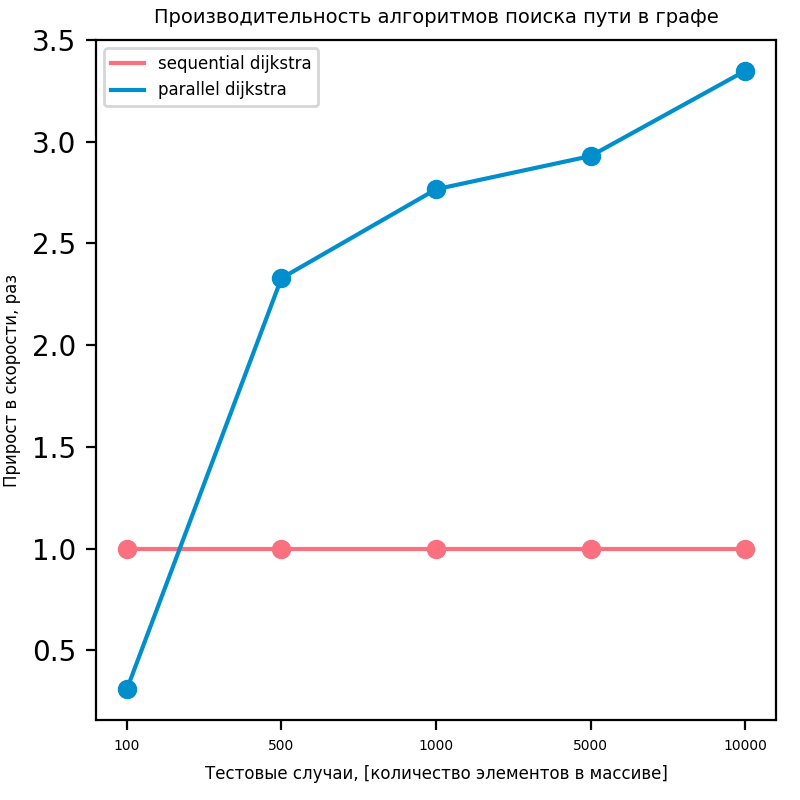
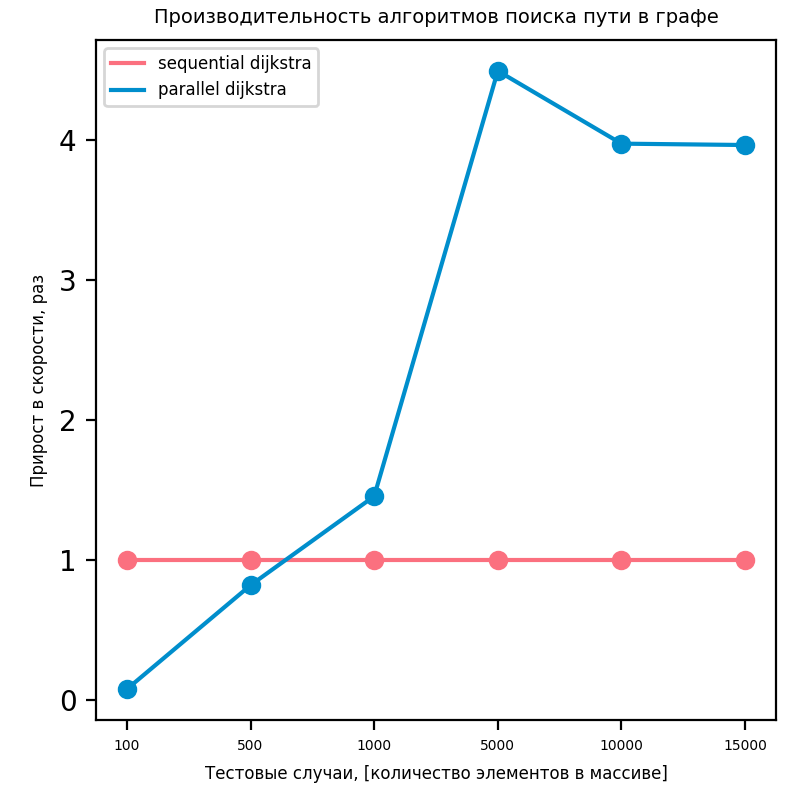
update task_4_report

diff --git a/implementation/task_4/scripts/run.py b/implementation/task_4/scripts/run.py
@@ -16,6 +16,7 @@ TEST_CASES = {
     2: 1_000,
     3: 5_000,
     4: 10_000,
+    5: 15_000,
 }
 MODES = {
     1: "sequential dijkstra",
@@ -42,17 +43,23 @@ class BenchmarkResult:
 
 
 def generate_graph(n_vertices: int, path_to_save: str):
-    source = np.array((0, 0))
-    points = np.random.rand(n_vertices - 2, 2)
-    points = np.vstack((source, points))
+    points = np.random.rand(n_vertices, 2)
     deltas = np.array([RIGHT - LEFT, TOP - BOTTOM])
     points = points * deltas + np.array([LEFT, BOTTOM])
     points = points.astype(float)
 
-    mesh = spatial.Delaunay(points, incremental=True)
-    edges = np.vstack([np.array([(a, b), (b, c), (c, a)]) for (a, b, c) in mesh.simplices])
-    edges.sort(axis=1)
-    edges = np.unique(edges, axis=0)
+    kdtree = spatial.cKDTree(data=points)
+    inds = kdtree.query(points, k=20)[1][:, 1:]
+    pair_indices = np.stack([np.repeat(np.arange(n_vertices).reshape(-1, 1),
+                                       19, axis=-1), inds], axis=-1).reshape(-1, 2)
+    pair_indices.sort(axis=1)
+    edges = np.unique(pair_indices, axis=0)
+
+
+    # mesh = spatial.Delaunay(points, incremental=True)
+    # edges = np.vstack([np.array([(a, b), (b, c), (c, a)]) for (a, b, c) in mesh.simplices])
+    # edges.sort(axis=1)
+    # edges = np.unique(edges, axis=0)
 
     weights = np.linalg.norm(points[edges[:, 0]] - points[edges[:, 1]], axis=1).astype(int)
     data = np.zeros(shape=(n_vertices, n_vertices), dtype=int)
@@ -68,16 +75,17 @@ def benchmark():
     for test_case, length in TEST_CASES.items():
         generate_graph(length, GRAPH_DATA_PATH)
         for mode in MODES:
-            st = time.time()
-            exit_code = subprocess.call([EXECUTABLE_FILE, GRAPH_DATA_PATH, str(mode)])
-            if exit_code != 0:
-                print(f'Error in benchmarking. Test Case `{test_case}`, mode `{mode}`')
-            execution_time_sec = time.time() - st
-            benchmark_results.append(BenchmarkResult(
-                test_case,
-                mode,
-                execution_time_sec
-            ))
+            for _ in range(5):
+                st = time.time()
+                exit_code = subprocess.call([EXECUTABLE_FILE, GRAPH_DATA_PATH, str(mode)])
+                if exit_code != 0:
+                    print(f'Error in benchmarking. Test Case `{test_case}`, mode `{mode}`')
+                execution_time_sec = time.time() - st
+                benchmark_results.append(BenchmarkResult(
+                    test_case,
+                    mode,
+                    execution_time_sec
+                ))
 
     plot_results(benchmark_results)
 
@@ -101,7 +109,7 @@ def plot_results(benchmark_results: List[BenchmarkResult]):
 
 def plot_time_graphics(benchmark_results: List[BenchmarkResult]):
     plt.figure(figsize=(4, 4))
-    left, width = 0.11, 0.85
+    left, width = 0.12, 0.85
     bottom, height = 0.1, 0.85
 
     ax = plt.axes([left, bottom, width, height])
@@ -171,5 +179,70 @@ def plot_efficiency_graphics(benchmark_results: List[BenchmarkResult]):
     plt.savefig('task_4_efficiency_report.png', format='png', dpi=200)
 
 
+def kek():
+    results = [
+        BenchmarkResult(
+            test_case=0,
+            mode=1,
+            execution_time_sec=0.000151487
+        ),
+        BenchmarkResult(
+            test_case=0,
+            mode=2,
+            execution_time_sec=0.0019995
+        ),
+        BenchmarkResult(
+            test_case=1,
+            mode=1,
+            execution_time_sec=0.00465151
+        ),
+        BenchmarkResult(
+            test_case=1,
+            mode=2,
+            execution_time_sec=0.00568922
+        ),
+        BenchmarkResult(
+            test_case=2,
+            mode=1,
+            execution_time_sec=0.0134763
+        ),
+        BenchmarkResult(
+            test_case=2,
+            mode=2,
+            execution_time_sec=0.00927455
+        ),
+        BenchmarkResult(
+            test_case=3,
+            mode=1,
+            execution_time_sec=0.306793
+        ),
+        BenchmarkResult(
+            test_case=3,
+            mode=2,
+            execution_time_sec=0.0683105
+        ),
+        BenchmarkResult(
+            test_case=4,
+            mode=1,
+            execution_time_sec=0.895166
+        ),
+        BenchmarkResult(
+            test_case=4,
+            mode=2,
+            execution_time_sec=0.225392
+        ),
+        BenchmarkResult(
+            test_case=5,
+            mode=1,
+            execution_time_sec=2.10341
+        ),
+        BenchmarkResult(
+            test_case=5,
+            mode=2,
+            execution_time_sec=0.530915
+        ),
+    ]
+    plot_results(results)
+
 if __name__ == '__main__':
-    benchmark()
+    kek()

diff --git a/implementation/task_4/sources/dijkstra.cpp b/implementation/task_4/sources/dijkstra.cpp
@@ -84,7 +84,7 @@ int *ParallelDijkstra::calculate_shortest_distances(int source) {
     distances[source] = 0;
     for (int i = 0; i < graph->n_vertices; ++i) {
         int u = get_closest_vertex();
-        if (u < 0) // если вершина достижима
+        if (u < 0) // если вершина недостижима
             break;
 
         is_visited[u] = true;

diff --git a/implementation/task_4/README.md b/implementation/task_4/README.md
@@ -37,8 +37,7 @@ make run
 ## Тестовые данные
 Для проверки производительности различных реализаций метода Дейкстры были предложены следующие тестовые данные.
 На область с координатами **X in [0 .. 100_000]; Y in [0..100_000]**, случайным образом распределяется N-случайных точек.
-Далее с помощью триангуляции Делоне выполняется построение графа (см. на рисунке). Вес ребер вычисляется по евклидовой метрике.
-![Delaunay](../../reports/pictures/delaunay.png)
+Далее с помощью алгоритма k-ближайших сосесей выполняется построение графа, где k = 20. Вес ребер вычисляется по евклидовой метрике.
 После этого производится замер времени работы.
 ## Полученные результаты
 Замеры производительности также отражены на графике.

diff --git a/reports/task_4.md b/reports/task_4.md
@@ -37,8 +37,7 @@ make run
 ## Тестовые данные
 Для проверки производительности различных реализаций метода Дейкстры были предложены следующие тестовые данные.
 На область с координатами **X in [0 .. 100_000]; Y in [0..100_000]**, случайным образом распределяется N-случайных точек.
-Далее с помощью триангуляции Делоне выполняется построение графа (см. на рисунке). Вес ребер вычисляется по евклидовой метрике.
-![Delaunay](../../reports/pictures/delaunay.png)
+Далее с помощью алгоритма k-ближайших сосесей выполняется построение графа, где k = 20. Вес ребер вычисляется по евклидовой метрике.
 После этого производится замер времени работы.
 ## Полученные результаты
 Замеры производительности также отражены на графике.
